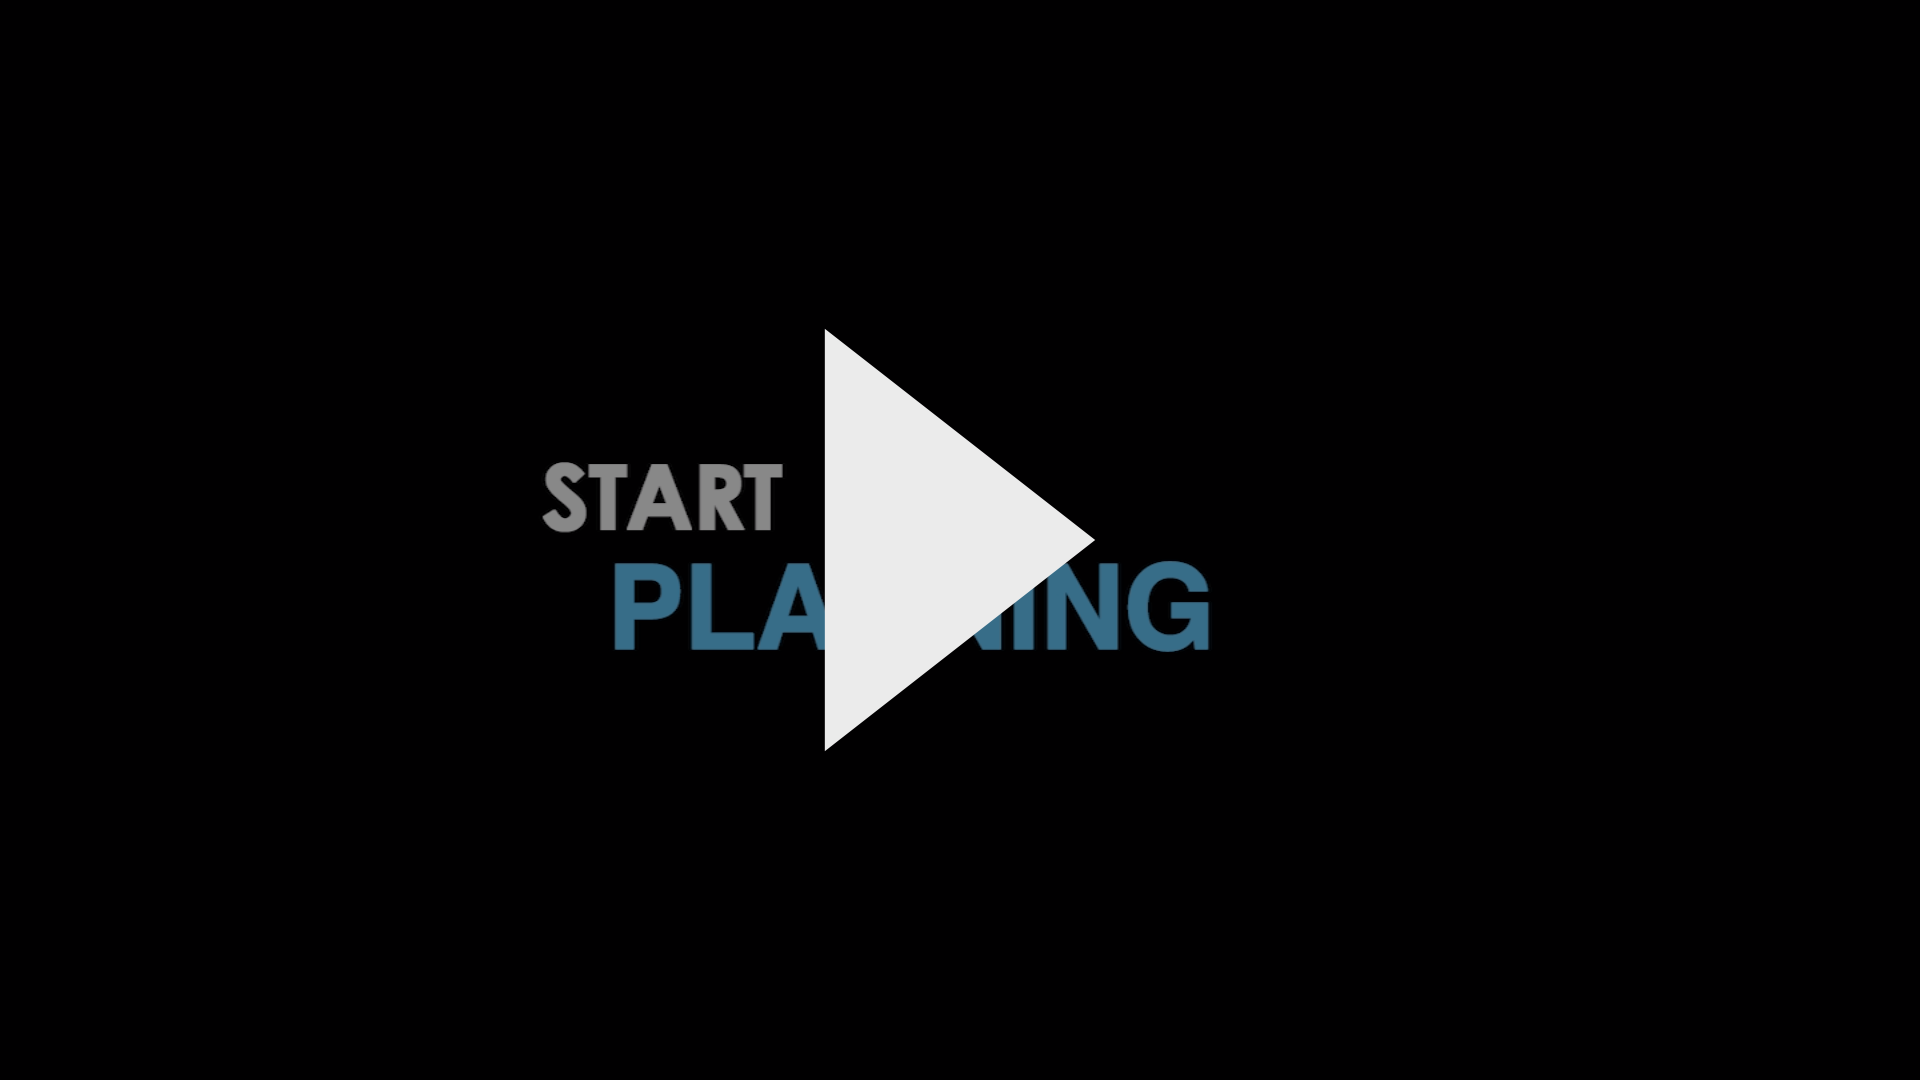
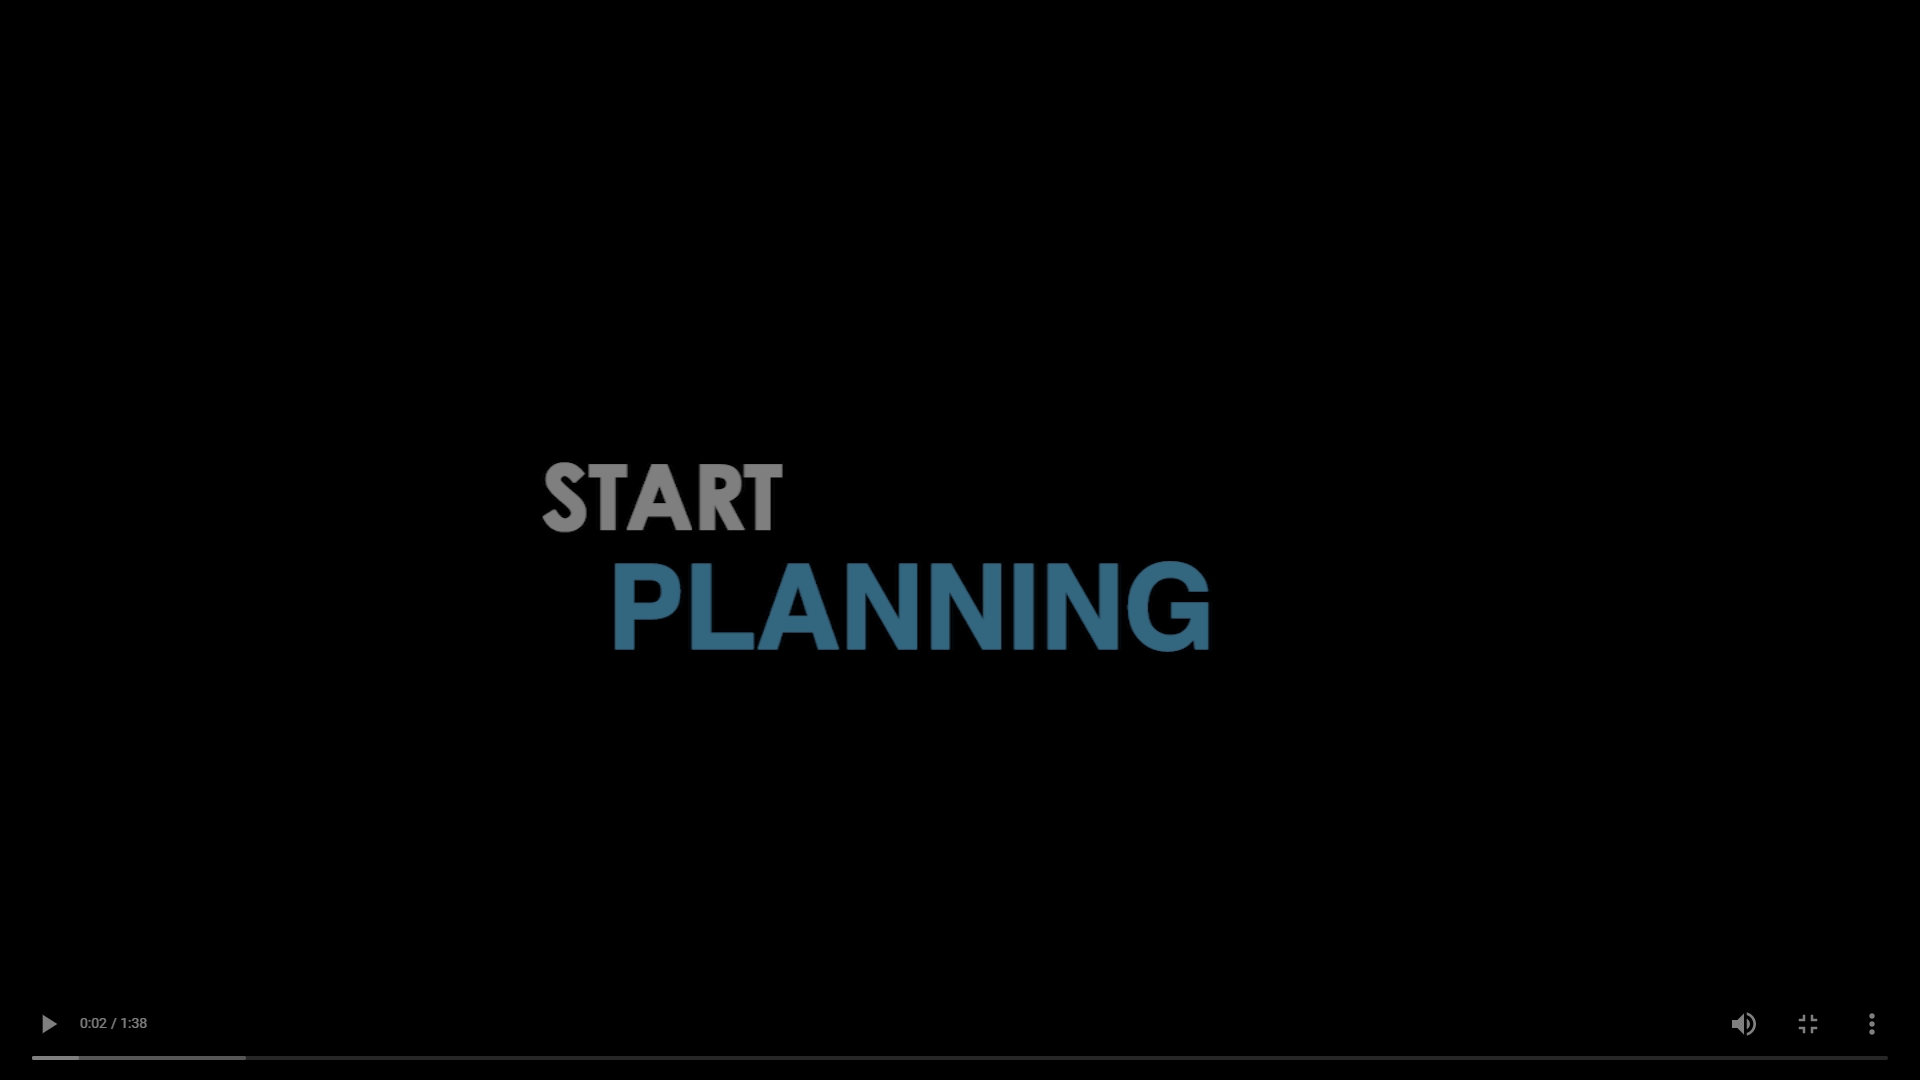
Updated placeholder video image

Changed region(s): [[0.4062, 0.3056, 0.5625, 0.7028], [0.0312, 0.9778, 0.9688, 1.0]]

diff --git a/index.php b/index.php
@@ -3,7 +3,7 @@
     include('include/header.php');
  ?>
             <div class="col-12">
-                <video id="video" src="Home Page - Promo Video.mp4" controls width="100%" preload="none"></video>
+                <video id="video" src="Home Page - Promo Video.mp4" controls width="100%" poster="./img/video-placeholder.png" preload="none"></video>
             </div>
             <div class="col-12 my-5 banner-welcome">
                 <a href="./welcome.php">
